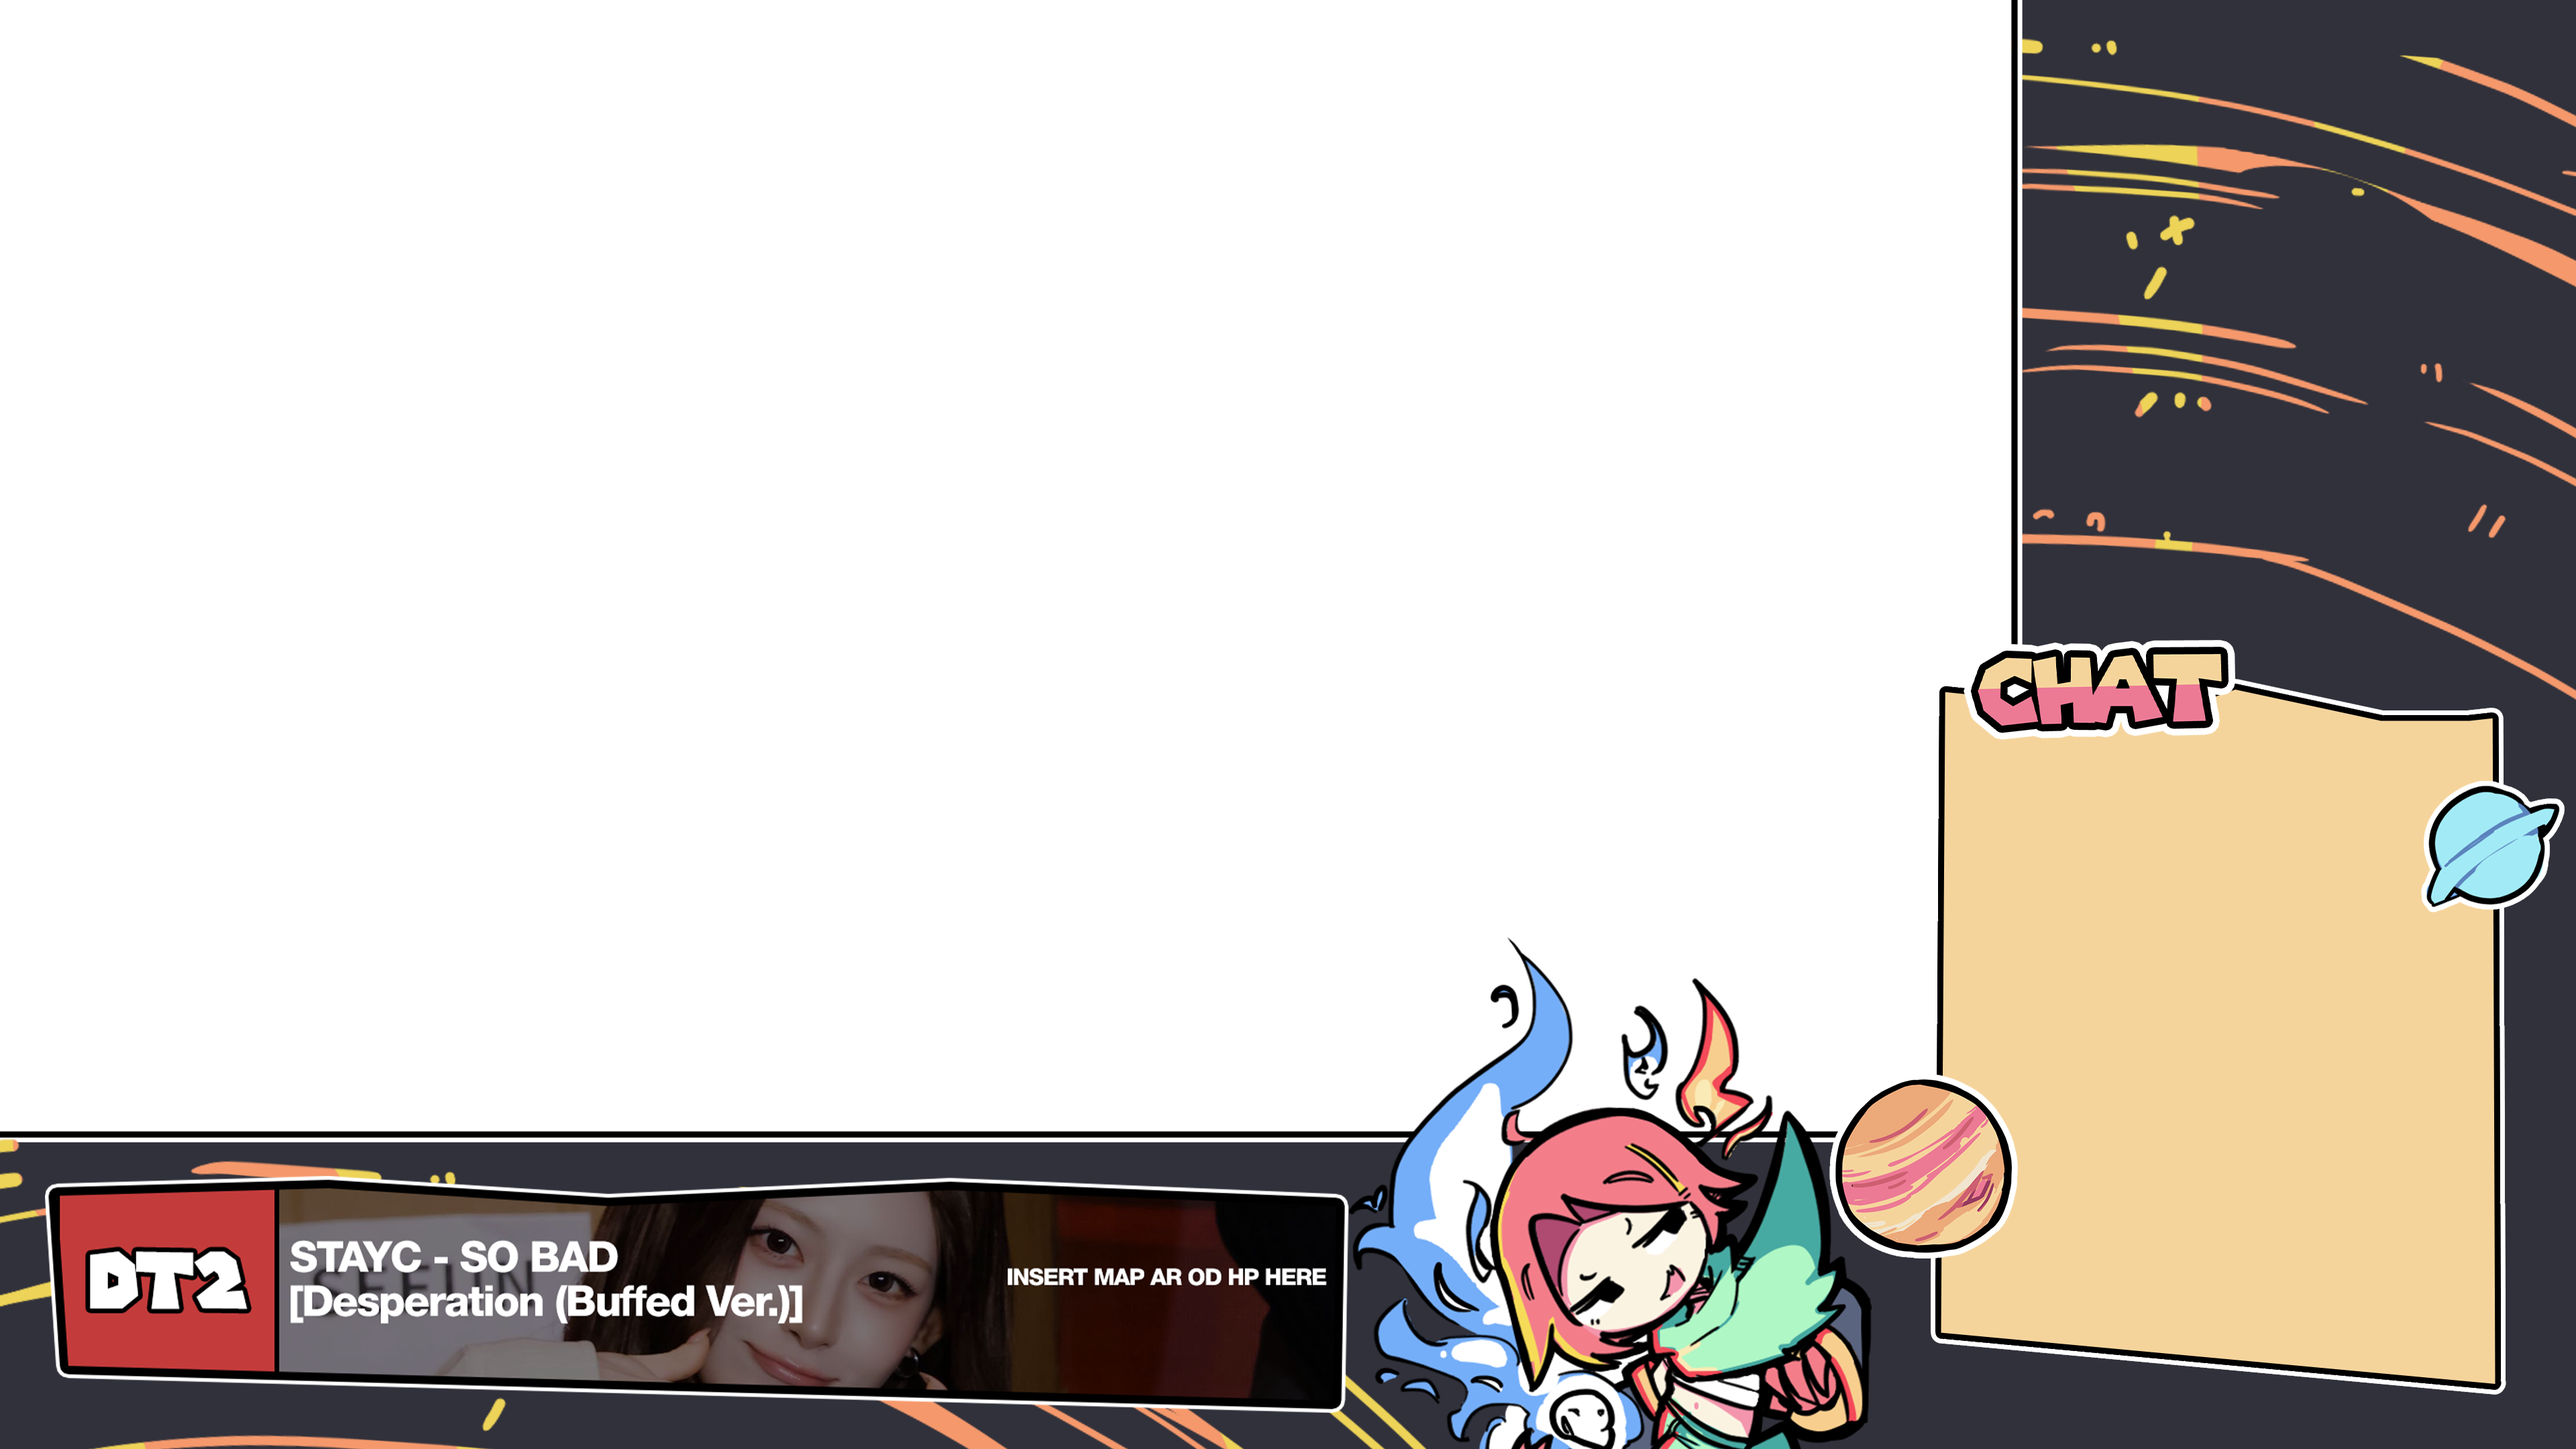
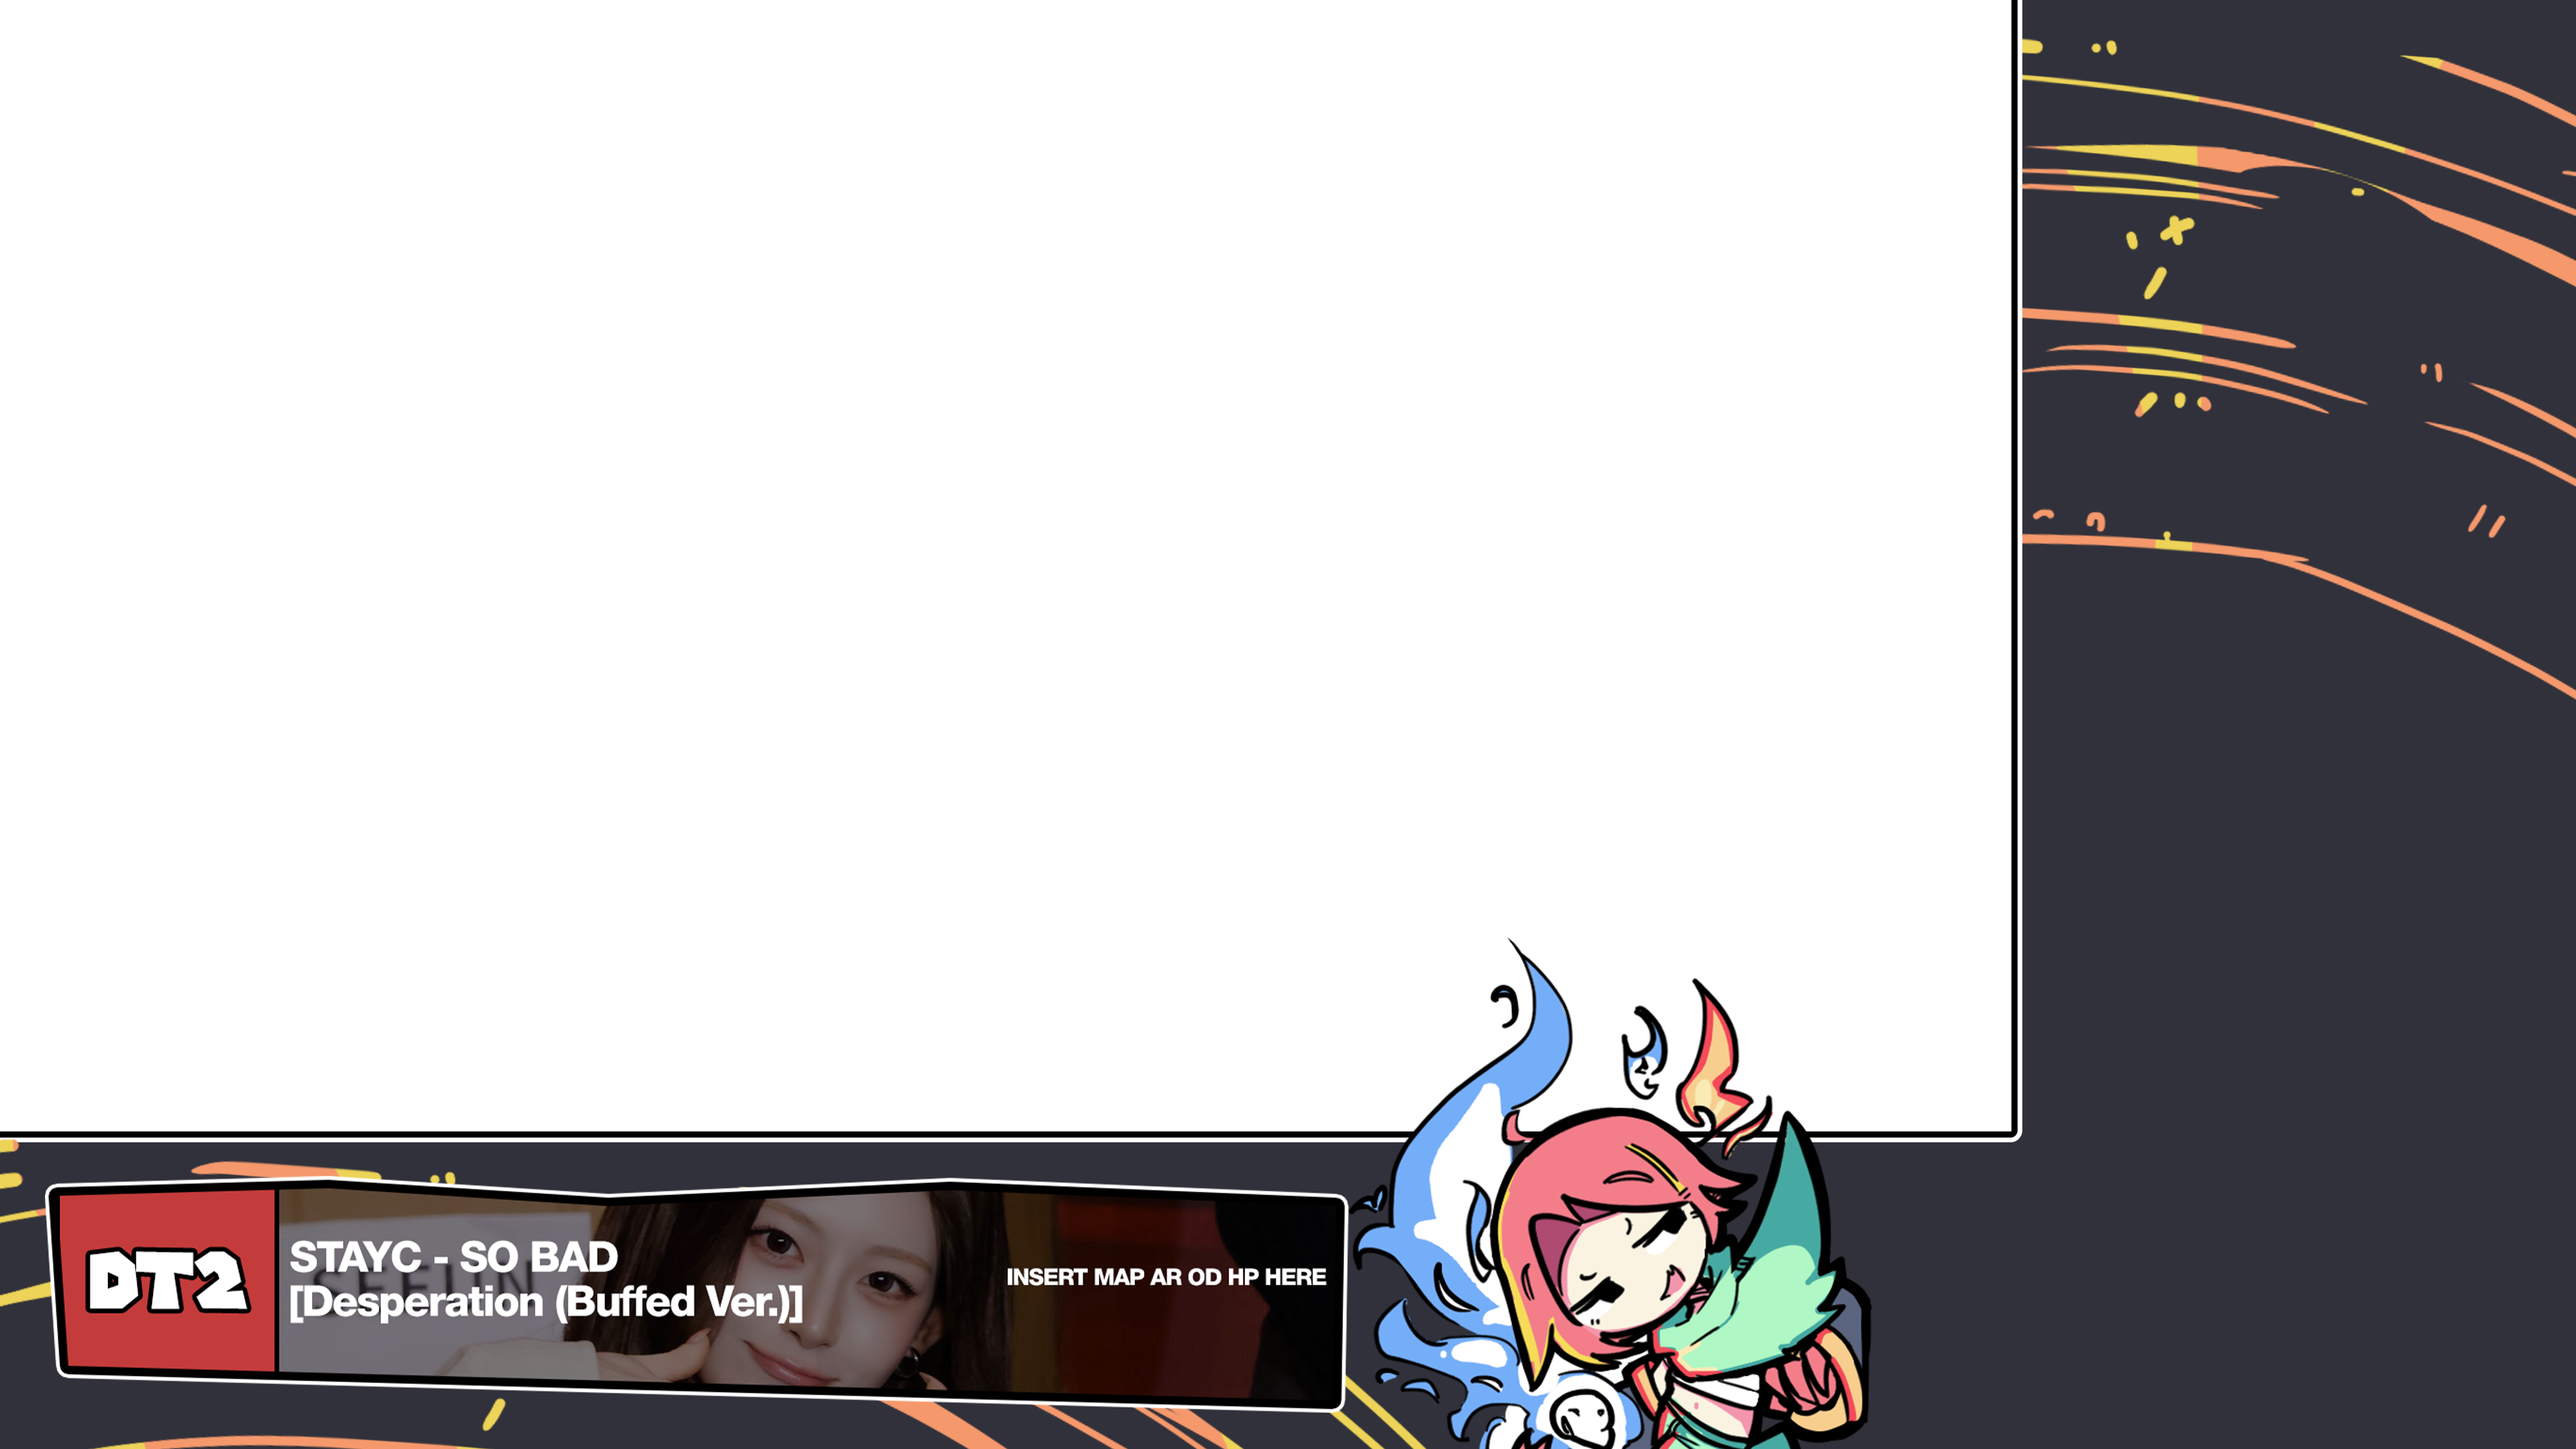
feat: add all chat images

Changed region(s): [[0.6875, 0.4343, 1.0, 0.9616]]

diff --git a/showcase/index.html b/showcase/index.html
@@ -81,8 +81,10 @@
         <img class="character-right" src="static/character-right.png">
 
         <!-- Chat Container -->
+        <img class="chat-image" src="static/chat-image.png">
         <img class="uranus" src="static/uranus.png">
         <img class="jupiter" src="static/jupiter.png">
+        <img class="chat-text" src="static/chat-text.png">
     </div>
 
     <script src="index.js" type="module"></script>

diff --git a/showcase/style.css b/showcase/style.css
@@ -26,6 +26,20 @@
 }
 
 /* Chat Container */
+.chat-image {
+    position: absolute;
+    right: 52px;
+    bottom: 40px;
+    height: 535px;
+}
+
+.chat-text {
+    position: absolute;
+    right: 254px;
+    bottom: 528px;
+    width: 196px;
+}
+
 .uranus {
     position: absolute;
     bottom: 400px;
